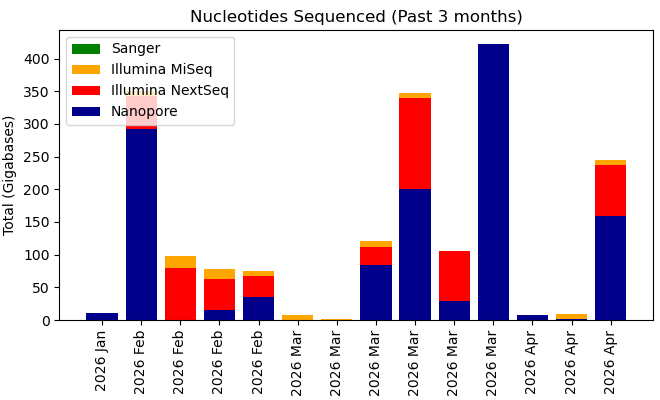
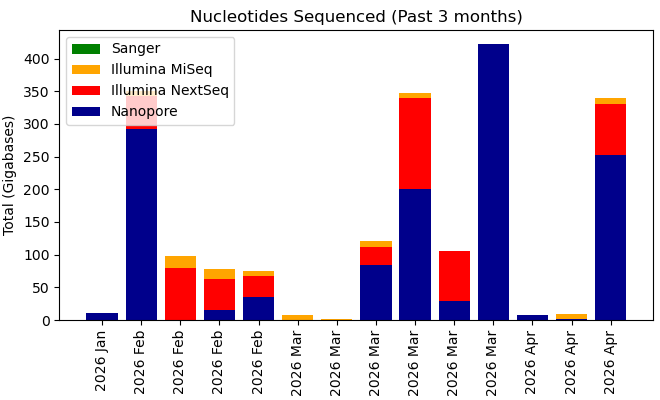
Your commit message here

Changed region(s): [[0.8788, 0.24, 0.9697, 0.54]]

diff --git a/krona/cgs.html b/krona/cgs.html
@@ -52,8 +52,8 @@ body {
   flex-direction: column;
 }
 </style>
-<H1>Genomics Facility Status: 07:00:06, 20/04/2026</H1>
-<marquee behavior="scroll" scrollamount="20" direction="left" bgcolor="lightgrey">GTCAGGATTGACACCCTCCCAATTGTATGTTTTCATGCCTCCAAATCTTGGAGGCTTTTTTATGGTTCGTTCTTATTACCCTTCTGAATGTCACGCTGATTATTTTGACTTTGAGCGTATCGAGGCTCTTAAACCTGCTATTGAGGCTTGTGGCATTTCTACTCTTTCTCAATCCCCAATGCTTGGCTTCCATAAGCAGATGGATAACCGCATCAAGCTCTTGGAAGAGATTCTGTCTTTTCGTATGCAGG</marquee>
+<H1>Genomics Facility Status: 07:00:14, 21/04/2026</H1>
+<marquee behavior="scroll" scrollamount="20" direction="left" bgcolor="lightgrey">AGAGTTTGATCCTGGCTCAGGACGAACGCTGGCGGCGTGCCTAACACATGCAAGTCGAACGAGAAAATTTGCATAGAAATTGACGCTATGAGGTTCAAGGAGGAAAGTGGGGGAGGGACGTGCAACGCGGGAGGAAACAGCCCATAAGAGGGGGAAATAACACGGCATAAGGGACTAATTCCGCATGTTGTAGCAAAGAAGCGTGACATGATTTTGGAAATTTTATCGCTTCTCATTGGCTTTGTGGT</marquee>
 <TABLE BORDER=0><TR><TD><TABLE class="styled-table"><H3>GigaBases Sequenced</H3>
-<TR><TD><b>Platform</b></TD><TD><b>Week</b></TD><TD><b>Month</b></TD><TD><b>Year</b></TD><TD><b>Total</b></TD></TR><TR><TD>Illumina MiSeq</TD><TD>7.98</TD><TD>15.9</TD><TD>343.25</TD><TD>533.0</TD></TR><TR><TD>Illumina NextSeq</TD><TD>78.05</TD><TD>154.37</TD><TD>4457.27</TD><TD>6541.98</TD></TR><TR><TD>Nanopore PromethION</TD><TD>159.12</TD><TD>699.66</TD><TD>7450.71</TD><TD>12038.77</TD></TR><TR><TD>Sanger</TD><TD>0.0</TD><TD>0.0</TD><TD>0.02</TD><TD>0.04</TD></TR></TABLE></TD><TD><IMG SRC="fig1.png"><IMG SRC="fig2.png"></TD></TR><TR><TD><H3>No. Samples (No. Experiments)</H3>
-<TABLE class="styled-table"><TR><TD><b>Platform</b></TD><TD><b>Week</b></TD><TD><b>Month</b></TD><TD><b>Year</b></TD><TD><b>Total</b></TD></TR><TR><TD>Illumina MiSeq</TD><TD>36 (1)</TD><TD>71 (2)</TD><TD>1434 (68)</TD><TD>2410 (95)</TD></TR><TR><TD>Illumina NextSeq</TD><TD>12 (1)</TD><TD>24 (2)</TD><TD>1341 (64)</TD><TD>2097 (84)</TD></TR><TR><TD>Nanopore PromethION</TD><TD>50 (15)</TD><TD>85 (33)</TD><TD>598 (193)</TD><TD>991 (343)</TD></TR><TR><TD>Sanger</TD><TD>576 (576)</TD><TD>2206 (2206)</TD><TD>20443 (20443)</TD><TD>43362 (43362)</TD></TR></TABLE></TD><TD><IMG SRC="fig4.png"></TD></TR></TABLE></HTML>
+<TR><TD><b>Platform</b></TD><TD><b>Week</b></TD><TD><b>Month</b></TD><TD><b>Year</b></TD><TD><b>Total</b></TD></TR><TR><TD>Illumina MiSeq</TD><TD>7.98</TD><TD>15.9</TD><TD>343.25</TD><TD>533.0</TD></TR><TR><TD>Illumina NextSeq</TD><TD>78.05</TD><TD>154.37</TD><TD>4457.27</TD><TD>6541.98</TD></TR><TR><TD>Nanopore PromethION</TD><TD>253.04</TD><TD>793.58</TD><TD>7544.62</TD><TD>12132.68</TD></TR><TR><TD>Sanger</TD><TD>0.0</TD><TD>0.0</TD><TD>0.02</TD><TD>0.04</TD></TR></TABLE></TD><TD><IMG SRC="fig1.png"><IMG SRC="fig2.png"></TD></TR><TR><TD><H3>No. Samples (No. Experiments)</H3>
+<TABLE class="styled-table"><TR><TD><b>Platform</b></TD><TD><b>Week</b></TD><TD><b>Month</b></TD><TD><b>Year</b></TD><TD><b>Total</b></TD></TR><TR><TD>Illumina MiSeq</TD><TD>36 (1)</TD><TD>71 (2)</TD><TD>1434 (68)</TD><TD>2410 (95)</TD></TR><TR><TD>Illumina NextSeq</TD><TD>12 (1)</TD><TD>24 (2)</TD><TD>1341 (64)</TD><TD>2097 (84)</TD></TR><TR><TD>Nanopore PromethION</TD><TD>49 (15)</TD><TD>84 (33)</TD><TD>597 (193)</TD><TD>990 (343)</TD></TR><TR><TD>Sanger</TD><TD>576 (576)</TD><TD>2110 (2110)</TD><TD>20443 (20443)</TD><TD>43362 (43362)</TD></TR></TABLE></TD><TD><IMG SRC="fig4.png"></TD></TR></TABLE></HTML>
